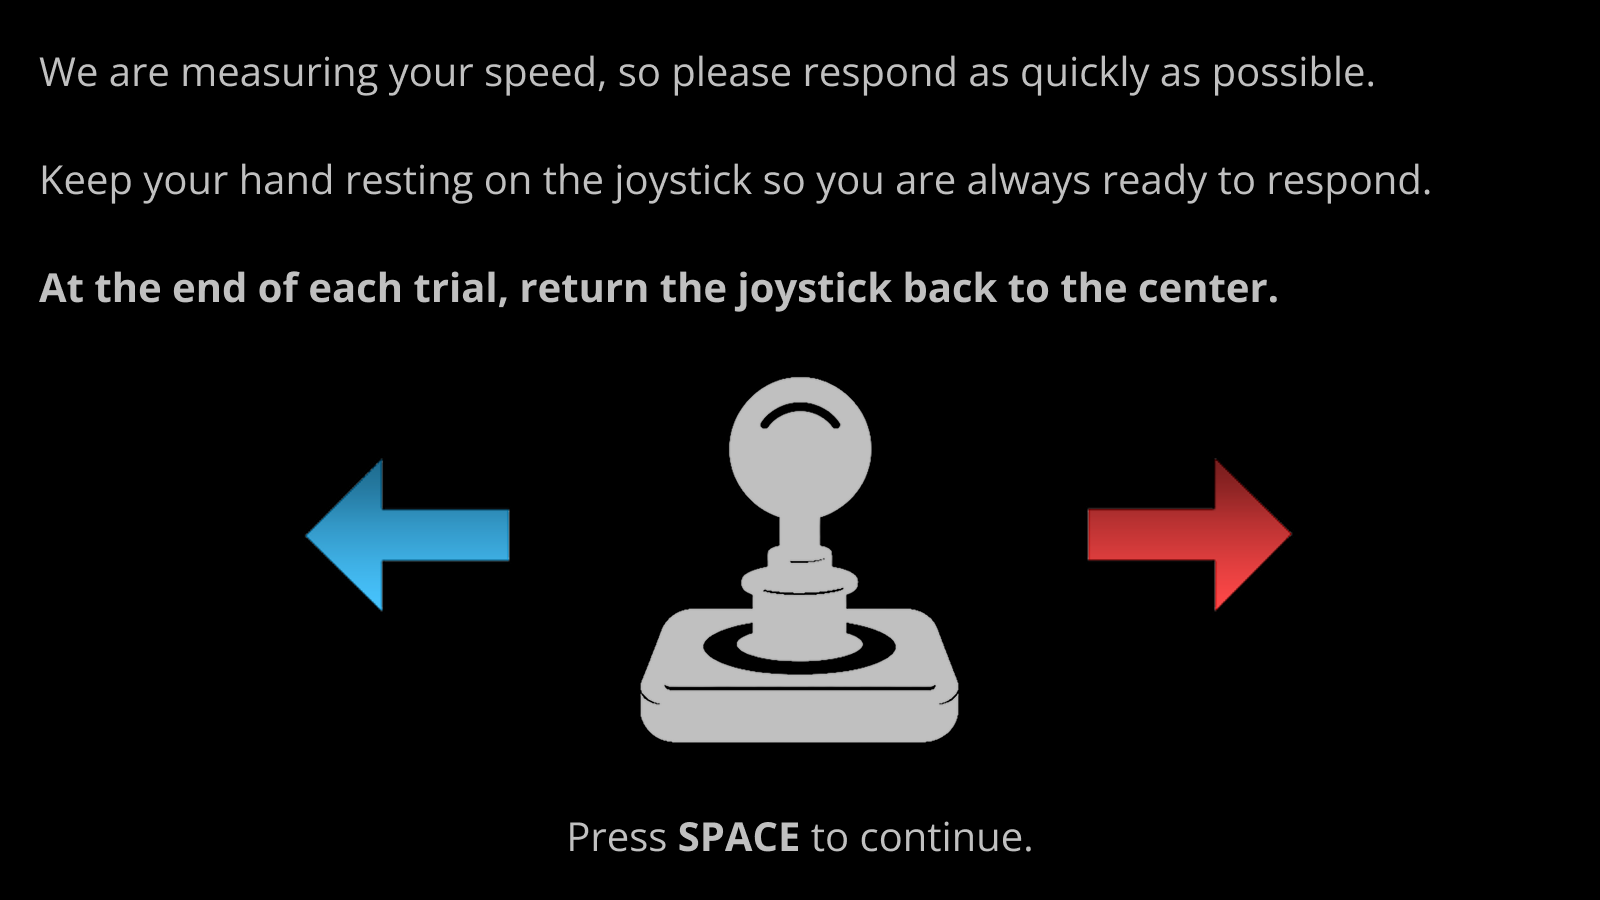
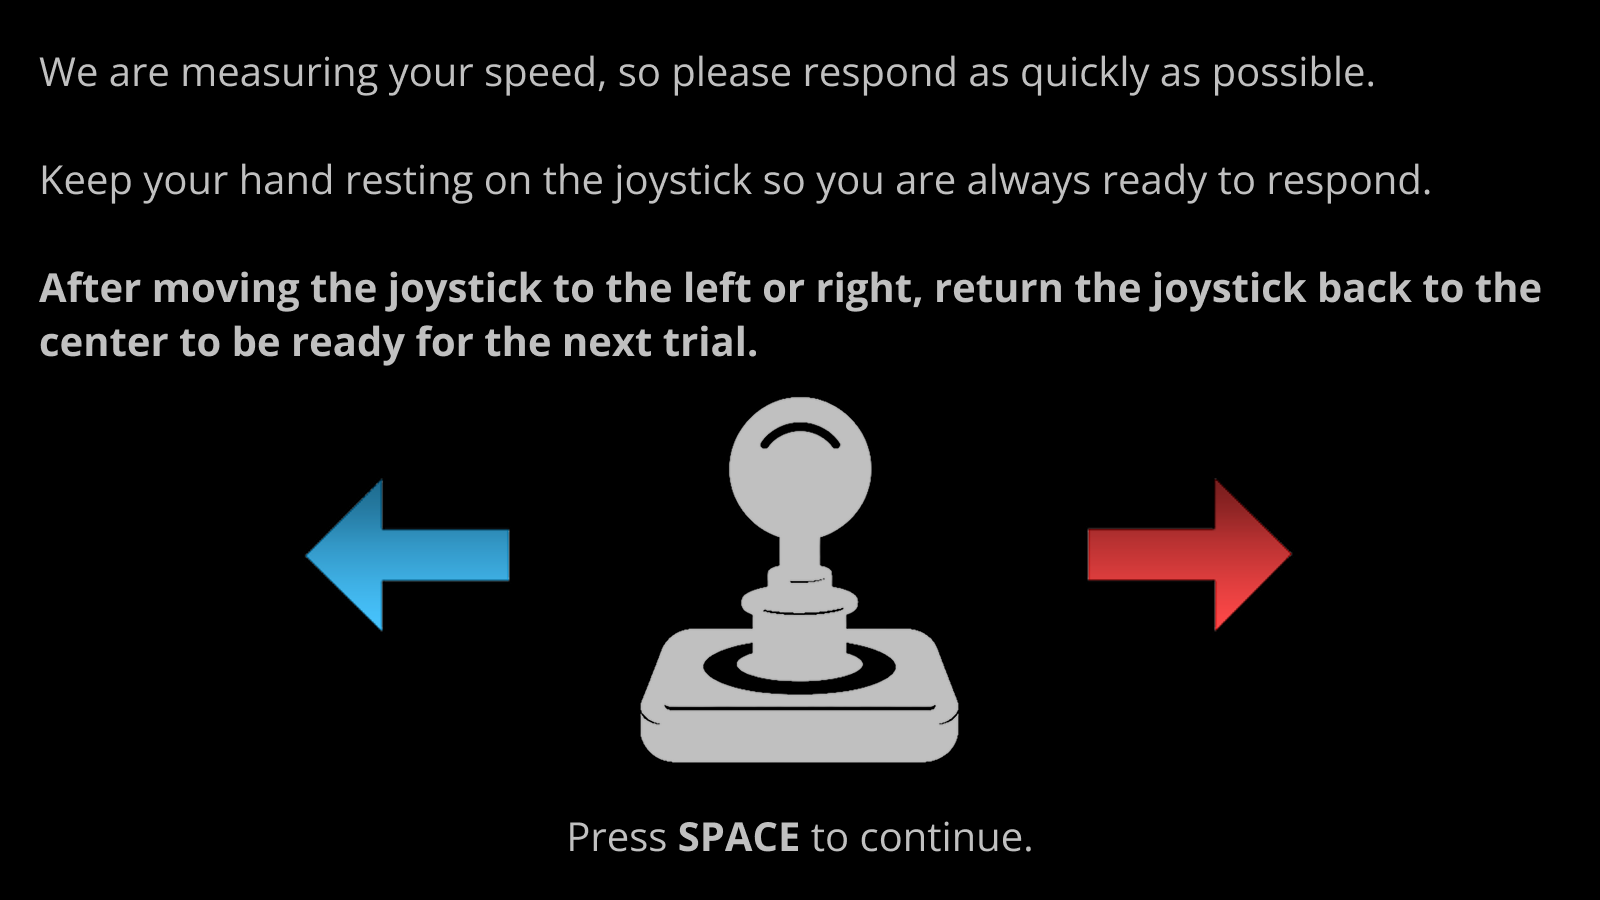
ccs instructions

diff --git a/ccs/src/core/motor.py b/ccs/src/core/motor.py
@@ -202,10 +202,12 @@ def run_trials(trials, response_time, isi_time, condition, read_trial, screen):
         isi_joy_response = None
 
         response_recorded = False
+        isi_response_recorded = False
         trial_input_source = None
         error_type = None
         correct = 0
         reaction_time = 0
+        stimulus_onset_tick = 0  # tick when stimulus became visible on screen
 
         feedback_active = False
         feedback_correct = False
@@ -305,9 +307,53 @@ def run_trials(trials, response_time, isi_time, condition, read_trial, screen):
             if not (is_motor_or_sensorimotor and phase_name == "stimulus"):
                 _activate_feedback(now_tick)
 
+        def _register_isi_response(now_tick, phase_start_tick, joy_resp):
+            nonlocal isi_response_recorded
+            nonlocal isi_joy_response, isi_key_response
+            nonlocal error_type, correct
+            nonlocal trial_input_source
+            nonlocal isi_reaction_time, reaction_time
+
+            if isi_response_recorded:
+                return
+            isi_response_recorded = True
+
+            # RT measured from stimulus onset (consistent with stimulus-phase RT)
+            phase_rt = now_tick - stimulus_onset_tick if stimulus_onset_tick else now_tick - phase_start_tick
+
+            # If no stimulus response yet, capture the input source now.
+            if trial_input_source is None:
+                trial_input_source = cfg._input_source
+
+            input_src = trial_input_source if trial_input_source is not None else cfg._input_source
+
+            if input_src == "key":
+                isi_key_response = "d" if joy_resp == "left" else "k"
+            else:
+                isi_joy_response = joy_resp
+
+            # Only classify as an error and record RT if no response was given during the stimulus.
+            had_stimulus_response = (
+                (stimulus_joy_response is not None) or
+                (stimulus_key_response is not None)
+            )
+            if not had_stimulus_response:
+                isi_reaction_time = phase_rt
+                reaction_time = phase_rt
+                if type == "no_go":
+                    error_type = "catch_delay_error"
+                else:
+                    is_correct_direction = (
+                        (joy_resp == "left" and key_correct == pygame.K_d) or
+                        (joy_resp == "right" and key_correct == pygame.K_k)
+                    )
+                    error_type = "correct_delay_error" if is_correct_direction else "incorrect_delay_error"
+                correct = 0
+
         def _run_phase(phase_name, duration_ms):
             nonlocal screen
             nonlocal trial_event_handler
+            nonlocal stimulus_onset_tick
             
             # Simple flush between phases (SD approach: no arming, no per-phase handler)
             pygame.event.clear()
@@ -317,8 +363,8 @@ def run_trials(trials, response_time, isi_time, condition, read_trial, screen):
             phase_start_tick = pygame.time.get_ticks()
             phase_end_tick = phase_start_tick + duration_ms
 
-            # Fixation and ISI: display only, do not collect responses
-            if phase_name != "stimulus":
+            # Fixation: display only, do not collect responses
+            if phase_name == "fixation":
                 while pygame.time.get_ticks() < phase_end_tick:
                     for event in pygame.event.get():
                         if event.type == pygame.QUIT:
@@ -327,6 +373,26 @@ def run_trials(trials, response_time, isi_time, condition, read_trial, screen):
                             quit()
                         if event.type == pygame.KEYDOWN and event.key == pygame.K_ESCAPE:
                             screen = toggle_fullscreen(screen)
+                    _draw_base(phase_name)
+                    pygame.display.flip()
+                    pygame.time.delay(1)
+                return
+
+            # ISI: display + capture first response (for logging only)
+            if phase_name == "isi":
+                isi_event_handler = EventHandler()
+                while pygame.time.get_ticks() < phase_end_tick:
+                    state = isi_event_handler.poll()
+                    now_tick = pygame.time.get_ticks()
+                    if state.quit:
+                        print("=== QUIT EVENT DETECTED - EXITING GRACEFULLY ===")
+                        pygame.quit()
+                        quit()
+                    if state.toggle_full_screen:
+                        screen = toggle_fullscreen(screen)
+                    if (not isi_response_recorded) and (state.option_1 or state.option_2):
+                        joy_resp = "left" if state.option_1 else "right"
+                        _register_isi_response(now_tick, phase_start_tick, joy_resp)
                     _draw_base(phase_name)
                     pygame.display.flip()
                     pygame.time.delay(1)
@@ -342,6 +408,7 @@ def run_trials(trials, response_time, isi_time, condition, read_trial, screen):
             _draw_base("stimulus")
             pygame.display.flip()  # Vsync waits here; stimulus becomes visible
             phase_start_tick = pygame.time.get_ticks()  # NOW start RT timer
+            stimulus_onset_tick = phase_start_tick       # store for ISI RT reference
             phase_end_tick = phase_start_tick + duration_ms
             
             # Stimulus phase loop: collect first response
@@ -391,8 +458,8 @@ def run_trials(trials, response_time, isi_time, condition, read_trial, screen):
         _run_phase("stimulus", response_time)
         _run_phase("isi", isi_time)
 
-        # No response across all three phases
-        if not response_recorded:
+        # No response across all three phases (neither stimulus nor ISI)
+        if not response_recorded and not isi_response_recorded:
             if type == "no_go":
                 correct = 1
                 error_type = None
@@ -406,13 +473,6 @@ def run_trials(trials, response_time, isi_time, condition, read_trial, screen):
             else SM_AVG_FIXATION_TIME  # fallback
         )
         correct = 1 if (error_type is None) else 0
-
-        # Ensure mutually-exclusive stage recording:
-        # if stimulus has input, isi must remain empty.
-        if stimulus_key_response is not None:
-            isi_key_response = None
-        if stimulus_joy_response is not None:
-            isi_joy_response = None
 
         endTime = datetime.now().strftime("%Y-%m-%d-%H-%M-%S")
 

diff --git a/ccs/src/utils/saves.py b/ccs/src/utils/saves.py
@@ -300,12 +300,6 @@ def update_save(
             stimulus_key_response = ""
             isi_key_response = ""
 
-    # Stage-level exclusivity: if stimulus exists, clear isi.
-    if stimulus_key_response not in ("", None):
-        isi_key_response = ""
-    if stimulus_joy_response not in ("", None):
-        isi_joy_response = ""
-
     key_response = _first_non_empty(stimulus_key_response, isi_key_response)
     joy_response = _first_non_empty(stimulus_joy_response, isi_joy_response)
 
